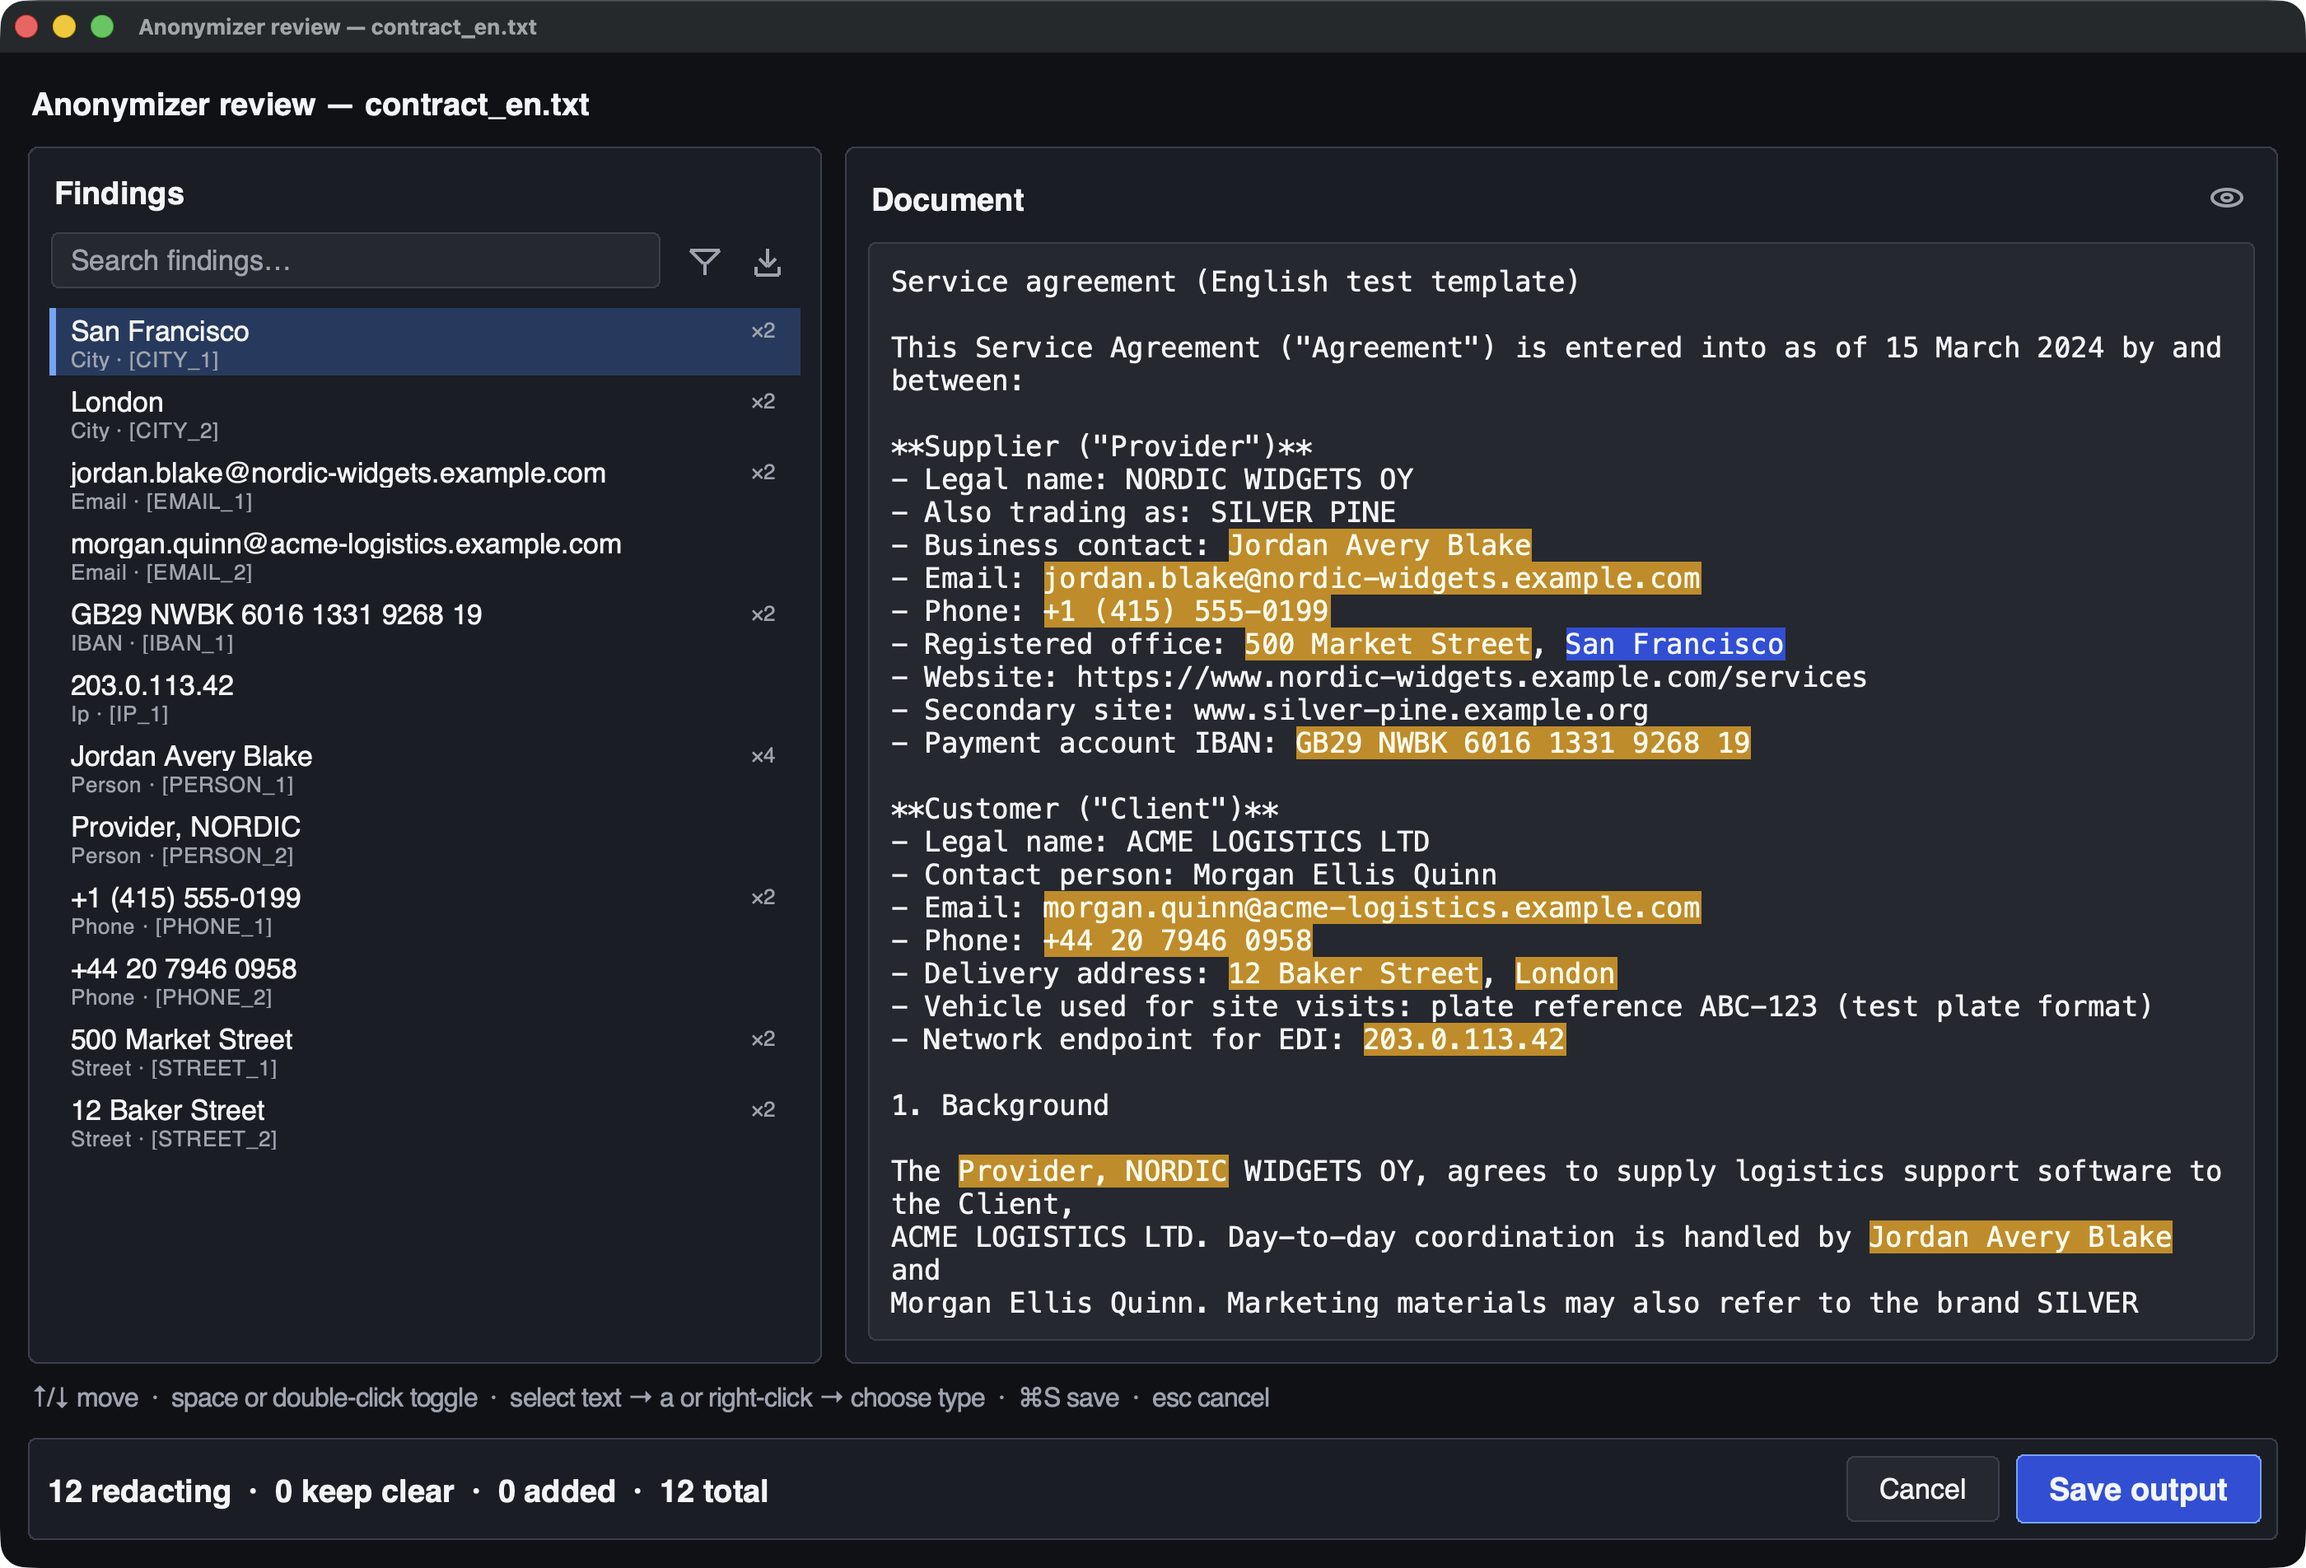
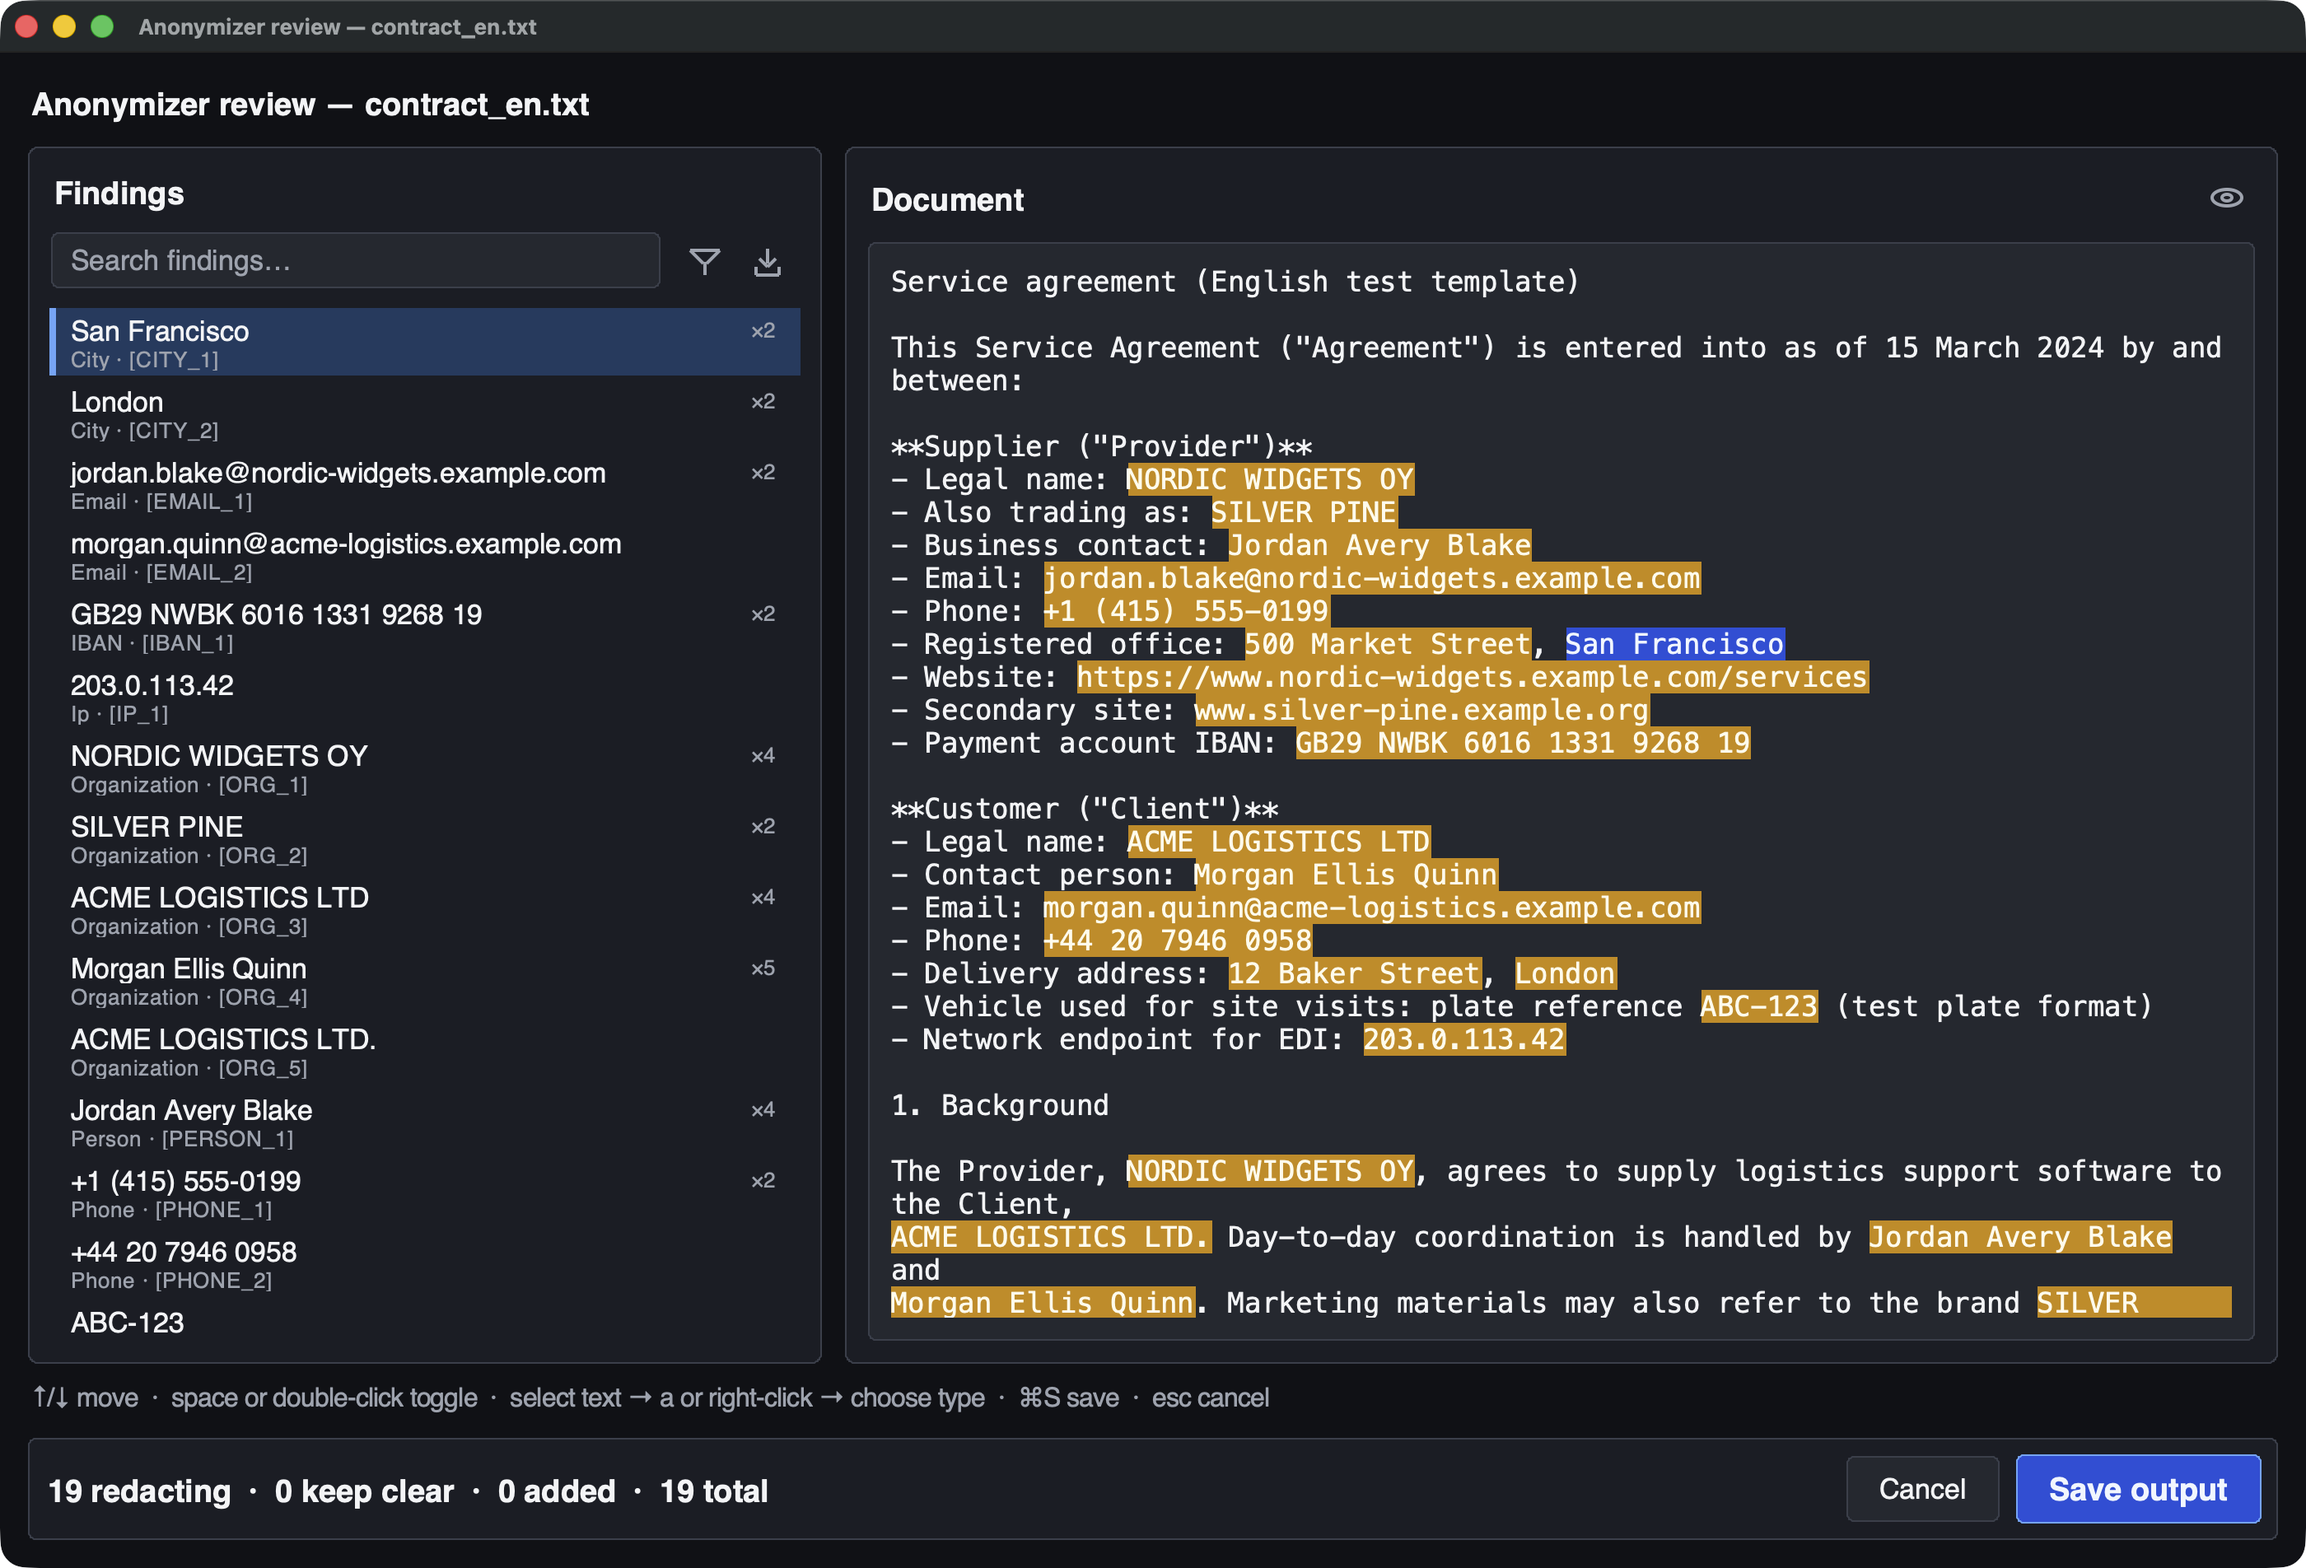
docs: refresh review screenshot without user templates
Recapture the review window using only builtin template packs in an
isolated config so findings reflect full strict-mode detection (not a
user allow/deny pack).

diff --git a/docs/screenshots/README.md b/docs/screenshots/README.md
@@ -5,6 +5,15 @@ Product UI captures for the README and docs (synthetic sample contract only).
 | File | Content |
 |------|---------|
 | `options-window.png` | Mac **Anonymizer.app** options (v1.4.0) with `tests/fixtures/contract_en.txt` |
-| `review-window.png` | Document **review** UI on the same fixture (`anonymize standard … --review-window`) |
+| `review-window.png` | Document **review** UI (`strict` on the same fixture; **builtin packs only**, no user templates) |
 
 Captured on macOS at native Retina resolution. Do not commit customer documents — regenerate from fixtures if you need new shots.
+
+```bash
+# Regenerating review shot without user/custom templates:
+TMP=$(mktemp -d)
+export XDG_CONFIG_HOME="$TMP" ANONYMIZER_CONFIG="$TMP/config.yaml"
+printf '%s\n' 'templates_enabled: [en-field-labels, en-legal-boilerplate, fi-field-labels, fi-legal-boilerplate]' > "$ANONYMIZER_CONFIG"
+anonymize strict tests/fixtures/contract_en.txt --review-window \
+  --template en-field-labels,en-legal-boilerplate,fi-field-labels,fi-legal-boilerplate
+```
